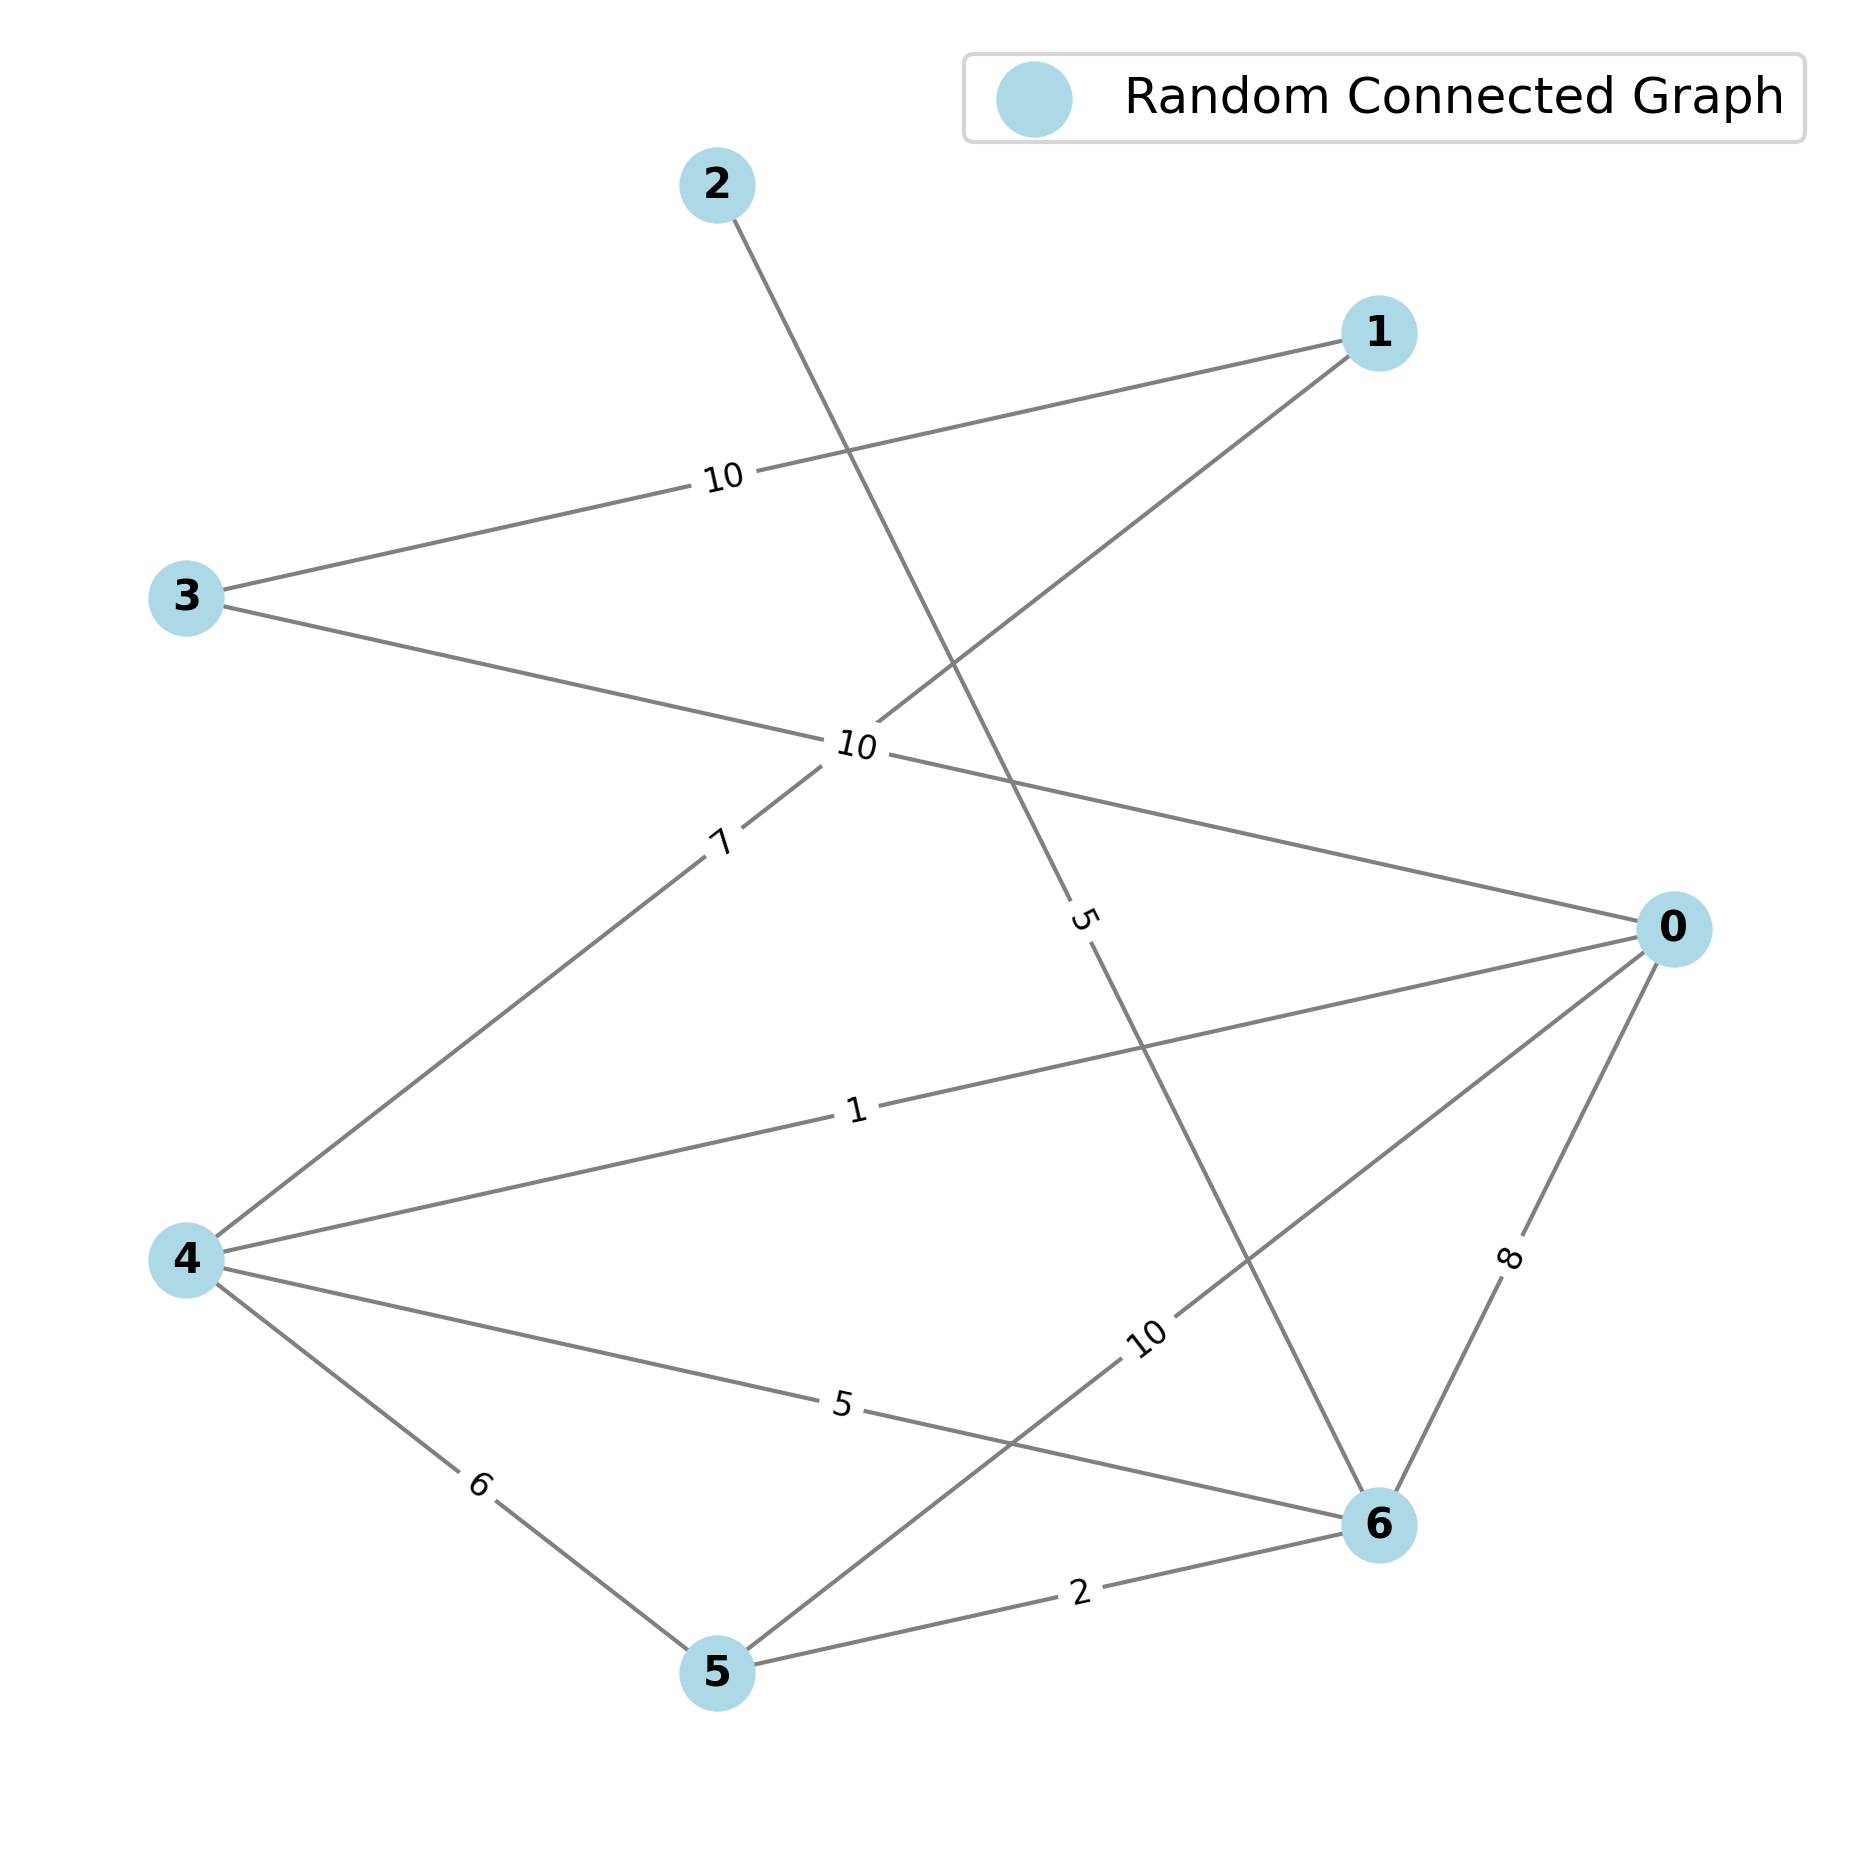
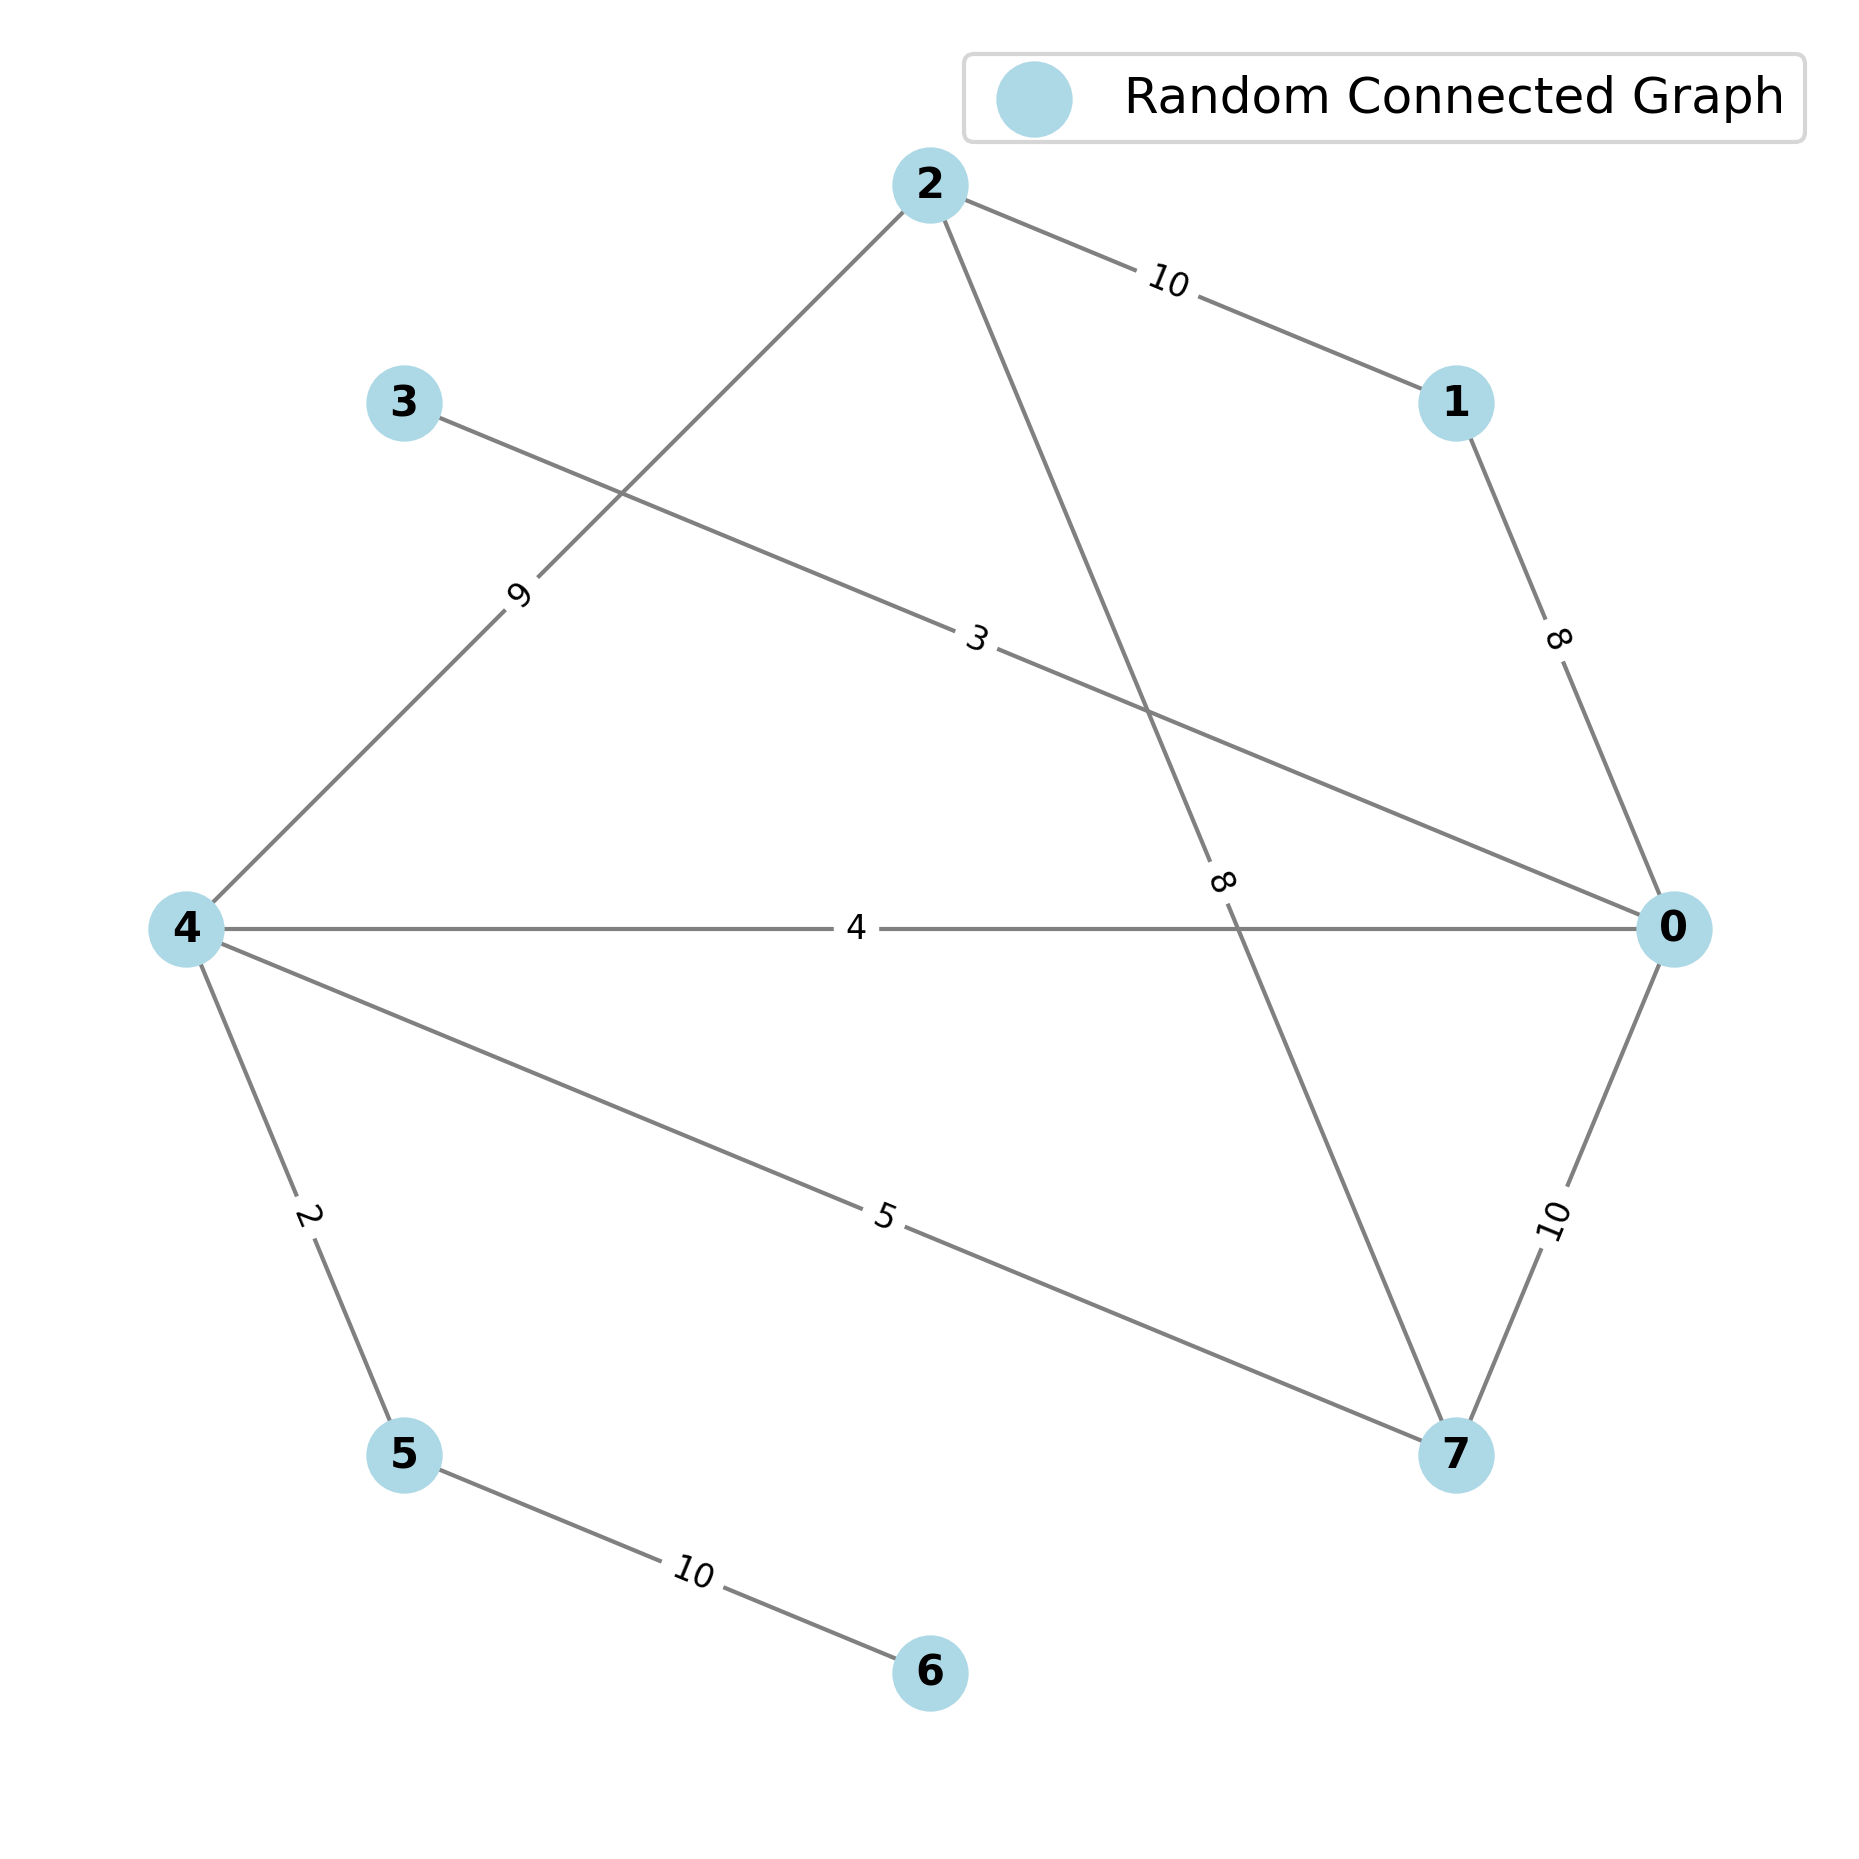
finished project 3

diff --git a/MyGraph.py b/MyGraph.py
@@ -1,10 +1,11 @@
 import random
 import numpy as np
-from typing import Union, List 
+from typing import Union
 from enum import Enum, auto
-# import networkx as nx
 import random
 import copy
+import heapq
+
 # Zestaw 1
 
 class GraphRepresentationType(Enum):
@@ -390,3 +391,66 @@ def find_graph_center_and_minimax_based_on_distance_matrix(M: list[list[int]]) -
     center = np.argmin(sums)
     minimax = np.argmin(max_paths)
     return (center, sums[center]), (minimax, max_paths[minimax])
+
+
+def prim(graph: Graph, start_node: int) -> tuple[list[int], list[int], list[tuple[int, int, int]]]:
+    if graph.type != GraphRepresentationType.AdjacencyList:
+        graph = graph.to_AL()
+    
+    T = [start_node]
+    W = [i for i in range(graph.size) if i != start_node]
+    mst = []
+    edges = []
+    
+    for neighbor in graph.data[start_node]:
+        weight = graph.weights[(start_node, neighbor)] if start_node < neighbor else graph.weights[(neighbor, start_node)]
+        heapq.heappush(edges, (weight, start_node, neighbor))     
+    
+    while len(T) < graph.size:
+        weight,u, v = heapq.heappop(edges)
+        if v in W:
+            mst.append((u, v, weight))
+            T.append(v)
+            W.remove(v)
+
+            for neighbor in graph.data[v]: 
+                if neighbor in W:
+                    weight = graph.weights[(v, neighbor)] if v<neighbor else graph.weights[(neighbor, v)]
+                    heapq.heappush(edges, (weight, v, neighbor))
+
+    return T, W, mst
+
+
+def kruskal(graph: Graph) -> tuple[list[int], list[int], list[tuple[int, int, int]]]:
+    if graph.type != GraphRepresentationType.AdjacencyList:
+        graph = graph.to_AL()
+    
+    edges = [(w,u,v) for (u,v), w in graph.weights.items()]
+    edges.sort()
+    parent = {v: v for v in range(graph.size)}  
+    rank = {v: 0 for v in range(graph.size)}
+    
+    def find(v):
+        if parent[v] != v:
+            parent[v] = find(parent[v])
+        return parent[v]
+    
+    def union(u, v):
+        root_u = find(u)
+        root_v = find(v)
+        if root_u != root_v:
+            if rank[root_u] > rank[root_v]:
+                parent[root_v] = root_u
+            elif rank[root_u] < rank[root_v]:
+                parent[root_u] = root_v
+            else:
+                parent[root_v] = root_u
+                rank[root_u] += 1
+                
+    mst = []
+    for w, u, v in edges:
+        if find(u) != find(v):  
+            union(u, v)       
+            mst.append((u, v, w)) 
+                
+    return mst

diff --git a/DrawGraph.py b/DrawGraph.py
@@ -4,7 +4,19 @@ import numpy as np
 import matplotlib.pyplot as plt
 from MyGraph import  *
 
-def Draw(graph: Graph, filename: str = "graph.png", legend_title: str = "Graph", output_dir: str = "outputs/03", with_weights: bool = False) -> None:
+def Draw(graph: Graph, filename: str = "graph.png", legend_title: str = "Graph", output_dir: str = "outputs/03", with_weights: bool = False, mst: list[tuple[int, int, int]] = None ) -> None:
+    """
+    Draws graph with optional MST and egde weights.
+
+    Args:
+        graph (Graph): The input graph
+        filename (str): Name of the output file
+        legend_title (str): Title of the graph
+        output_dir (str): Output directory
+        with_weights (bool): Whether to display edge weights
+        mst (list[tuple[int, int, int]]): List of MST edges in the format (u, v, w)
+    """
+    
     if not os.path.exists(output_dir):
         os.makedirs(output_dir)
     
@@ -40,8 +52,12 @@ def Draw(graph: Graph, filename: str = "graph.png", legend_title: str = "Graph",
             nx.draw_networkx_edge_labels(G, pos, edge_labels=nx.get_edge_attributes(G, 'weight'), font_size=8, label_pos=0.55)
             
         # checking whether edge weights are set properly            
-        print(f'graph.weights : {graph.weights}')            # wagi krawędzi są zawsze posortowane według pierwszego weirzchołka a pary zawsze sa od mniejszego do większego
-        #print(nx.get_edge_attributes(G, 'weight'))
+        # print(f'graph.weights : {graph.weights}')            # wagi krawędzi są zawsze posortowane według pierwszego weirzchołka a pary zawsze sa od mniejszego do większego
+        # print(nx.get_edge_attributes(G, 'weight'))
+          
+        if mst:
+            mst_edges = [(u, v) for u, v, _ in mst]
+            nx.draw_networkx_edges(G, pos, edgelist=mst_edges, edge_color="red", width=2)
             
         plt.legend([legend_title], loc="upper right", fontsize=12)
 

diff --git a/zestaw03.py b/zestaw03.py
@@ -9,6 +9,7 @@ if __name__ == '__main__':
     g  = generate_random_connected_graph(8, 10)
     g.add_weights(lambda : random.randint(1, 10))
     Draw(g, "random_connected_graph", "Random Connected Graph", output_dir="outputs/03", with_weights=True)
+    print('*'*100)
     
     # Zadanie 2
     # Zaimplementować algorytm Dijkstry do znajdowanian ajkrótszych ścieżek 
@@ -17,12 +18,14 @@ if __name__ == '__main__':
     # wane są jako odległości wierzchołków. Wypisać wszystkie najkrótsze
     # ścieżki od danego wierzchołka i ich długości.
     distances, paths = dijkstra(g, 0)
+    print('*'*100)
     
     # Zadanie 3
     # Wyznaczyć macierz odległości miedzy wszystkimi parami wierzchołków na tym grafie.
     M = get_distance_matrix(g)
     print("\nDistance matrix:")
     print_matrix_nicely(M)
+    print('*'*100)
     
     # Zadanie 4
     # Wyznaczyć centrum grafu, to znaczy wierzchołek, którego suma odległości do pozostałych wierzchołków jest minimalna. 
@@ -30,4 +33,16 @@ if __name__ == '__main__':
     center, minimax = find_graph_center_and_minimax_based_on_distance_matrix(M)
     print(f'Centrum = {center[0]} (suma odleglosci: {center[1]})')
     print(f'Centrum minimax = {minimax[0]} (odleglosc od najdalszego: {minimax[1]})')
+    print('*'*100)
     
+    # Zadanie 5
+    # Wyznaczyć minimalne drzewo rozpinające (algorytm Prima lub Kruskala).
+    T, W, mst_prim = prim(g, 0)
+    print('Prim:')
+    print(f'{T=}')
+    print(f'{W=}')
+    print(f'{mst_prim=}')
+    print('Kruskal:')
+    mst_krukal = kruskal(g)
+    print(f'{mst_krukal=}')
+    Draw(g, "random_connected_graph_mst", "Random Connected Graph with MST", output_dir="outputs/03", with_weights=True, mst= mst_prim)
